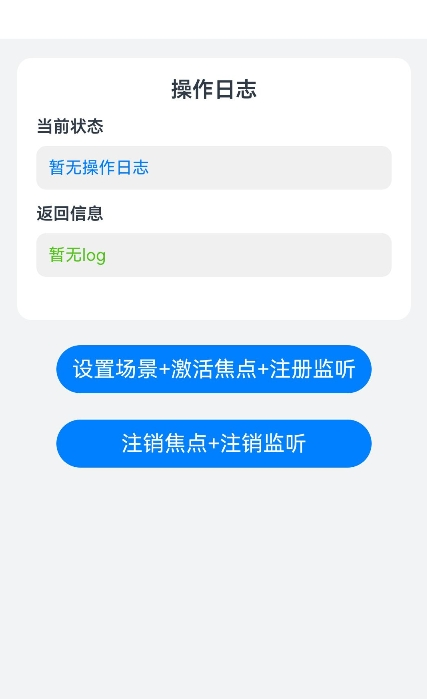
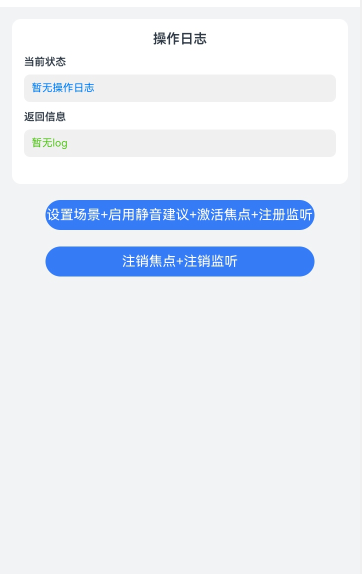
静音建议

diff --git a/code/DocsSample/Media/Audio/AudioSessionSampleC/entry/src/main/cpp/audiosession.cpp b/code/DocsSample/Media/Audio/AudioSessionSampleC/entry/src/main/cpp/audiosession.cpp
@@ -85,6 +85,12 @@ void AudioSessionStateChangedCallback(OH_AudioSession_StateChangedEvent event)
         case AUDIO_SESSION_STATE_CHANGE_HINT_UNDUCK:
           // 此分支表示系统已将音频音量恢复正常。
             break;
+        case AUDIO_SESSION_STATE_CHANGE_HINT_MUTE_SUGGESTION:
+          // 此分支表示其他应用开始播放非混音音频，系统可自行决定是否静音。
+            break;
+        case AUDIO_SESSION_STATE_CHANGE_HINT_UNMUTE_SUGGESTION:
+          // 此分支表示其他应用的非混音音频播放结束，系统可自行决定是否取消静音。
+            break;
         default:
             break;
     }
@@ -108,11 +114,18 @@ napi_value AudioSessionActive(napi_env env, napi_callback_info info)
     }
     // [End cget_sessionmanager]
     // [Start cset_audioscene]
+    // [Start cenable_muteSuggestion]
     // [EndExclude clistencallback_process]
     // AUDIO_SESSION_SCENE_MEDIA 仅为示例，实际使用时请根据具体情况进行修改。
     OH_AudioSessionManager_SetScene(audioSessionManager, AUDIO_SESSION_SCENE_MEDIA);
+    // [StartExclude cset_audioscene]
+    // 启用混音播放下静音建议。
+    OH_AudioSessionManager_EnableMuteSuggestionWhenMixWithOthers(audioSessionManager, true);
+    // [EndExclude cset_audioscene]
     // [Start cactive_sessionmanager]
+    // [StartExclude cenable_muteSuggestion]
     // CONCURRENCY_MIX_WITH_OTHERS 是示例，实际使用时请根据情况修改
+    // [EndExclude cenable_muteSuggestion]
     // [EndExclude csessionactive_process]
     OH_AudioSession_Strategy strategy = {CONCURRENCY_MIX_WITH_OTHERS};
     
@@ -120,6 +133,7 @@ napi_value AudioSessionActive(napi_env env, napi_callback_info info)
     OH_AudioSessionManager_ActivateAudioSession(audioSessionManager, &strategy);
     // [StartExclude clistencallback_process]
     // [End cset_audioscene]
+    // [End cenable_muteSuggestion]
     // [End cactive_sessionmanager]
     // 查询音频会话是否已激活。
     // [Start ccheck_isactivated]

diff --git a/code/DocsSample/Media/Audio/AudioSessionSampleC/README.md b/code/DocsSample/Media/Audio/AudioSessionSampleC/README.md
@@ -10,7 +10,7 @@
 
 <img src='./screenshots/focus_c.png' width=320> 
 
-- 点击'设置场景+激活焦点+注册监听'按钮，即可激活音频焦点。音频焦点的配置中，音频场景为媒体，焦点策略为混合播放。
+- 点击'设置场景+启用静音建议+激活焦点+注册监听'按钮，即可激活音频焦点。音频焦点的配置中，音频场景为媒体，启用混音播放下静音建议通知，焦点策略为混音播放。
 - 点击'注销焦点+注销监听'按钮，即可注销音频焦点。
 
 ## 工程结构&模块类型
@@ -36,7 +36,7 @@
 ### 使用AudioSession管理应用音频焦点
 - 源码参考：[audiosession.cpp](entry/src/main/ets/cpp/audiosession.cpp)  
 - 使用流程：
-  - 点击'设置场景+激活焦点+注册监听'按钮，首先调用`OH_AudioSessionManager_SetScene`设置当前音频场景为`MEDIA`。然后配置焦点策略为`CONCURRENCY_MIX_WITH_OTHERS`并调用`OH_AudioSessionManager_ActivateAudioSession`激活音频焦点。最后通过调用`OH_AudioSessionManager_RegisterSessionDeactivatedCallback`与`OH_AudioSessionManager_RegisterStateChangeCallback`监听焦点变化事件与焦点注销事件，监听事件触发后回调内容在返回信息栏打印。
+  - 点击'设置场景+启用静音建议+激活焦点+注册监听'按钮，首先调用`OH_AudioSessionManager_SetScene`设置当前音频场景为`MEDIA`。再调用`OH_AudioSessionManager_EnableMuteSuggestionWhenMixWithOthers`启用混音播放下静音建议通知。然后配置焦点策略为`CONCURRENCY_MIX_WITH_OTHERS`并调用`OH_AudioSessionManager_ActivateAudioSession`激活音频焦点。最后通过调用`OH_AudioSessionManager_RegisterSessionDeactivatedCallback`与`OH_AudioSessionManager_RegisterStateChangeCallback`监听焦点变化事件与焦点注销事件，监听事件触发后回调内容在返回信息栏打印。
   - 点击'注销焦点+注销监听'按钮，首先调用`OH_AudioSessionManager_DeactivateAudioSession`停用当前应用的音频会话。再调用`OH_AudioSessionManager_UnregisterSessionDeactivatedCallback`与`OH_AudioSessionManager_UnregisterStateChangeCallback`注销对焦点变化事件与焦点注销事件的监听。
 
 

diff --git a/code/DocsSample/Media/Audio/AudioSessionSampleJS/README.md b/code/DocsSample/Media/Audio/AudioSessionSampleJS/README.md
@@ -8,11 +8,12 @@
 
 **图1**：主界面
 
+<img src='./screenshots/focus_js.png' width=320>
+
 - 依次点击'设置场景'、'激活焦点+注册监听'按钮，即可激活音频焦点，焦点策略为混合播放。
+- 依次点击'设置场景'、'启用静音建议'、'激活焦点+注册监听'按钮，即可启用混音播放下静音建议通知。
 - 点击'判断焦点是否激活'按钮，即可查询焦点状态，查询信息在运行结果栏显示。
 - 点击'注销焦点+注销监听'按钮，即可注销音频焦点。
-
-  <img src='./screenshots/focus_js.png' width=320> 
 
 ## 工程结构&模块类型
 
@@ -32,6 +33,7 @@
 - 源码参考：[Index.ets](entry/src/main/ets/pages/Index.ets)  
 - 使用流程：
   - 点击'设置场景'按钮，调用`audioSessionManager.setAudioSessionScene`设置当前音频场景为`MEDIA`。
+  - 点击'启用静音建议'按钮，调用`audioSessionManager.enableMuteSuggestionWhenMixWithOthers`启用混音播放下静音建议通知。
   - 点击'激活焦点+注册监听'按钮，首先配置焦点策略为`CONCURRENCY_MIX_WITH_OTHERS`，接着调用`audioSessionManager.activateAudioSession`激活音频焦点，然后通过`audioSessionManager.on`监听焦点变化事件与焦点注销事件，监听事件触发后回调内容在回调信息栏打印。
   - 点击'判断焦点是否激活'按钮，调用`audioSessionManager.isAudioSessionActivated`来查询当前音频焦点激活状态，查询结果在运行结果栏打印。
   - 点击'注销焦点+注销监听'按钮，首先调用`audioSessionManager.deactivateAudioSession`停用当前应用的音频会话，再调用`audioSessionManager.off`来注销对焦点变化事件与焦点注销事件的监听。

diff --git a/code/DocsSample/Media/Audio/AudioSessionSampleJS/ohosTest.md b/code/DocsSample/Media/Audio/AudioSessionSampleJS/ohosTest.md
@@ -6,6 +6,7 @@
 |----------------------------|----------|----------------------|------------------------------------------------------|---------|
 | 拉起应用                     | 设备正常运行 | -                    | 成功拉起应用，进入首页                                        | 是      |
 | 设置音频会话场景               | 位于主页     | 点击"设置场景"             | 成功将 AudioSession 场景设为 MEDIA                           | 是      |
+| 启用混音播放下静音建议          | 位于主页     | 点击"启用静音建议"            | 启用混音播放下静音建议回调                          | 是      |
 | 激活音频会话并注册监听          | 位于主页     | 点击"激活焦点+注册监听"       | 激活 AudioSession（并发策略为 MIX_WITH_OTHERS）并注册状态监听器       | 是      |
 | 判断音频会话是否激活            | 位于主页     | 点击"判断焦点是否激活"        | 调用 isAudioSessionActivated 接口，返回当前激活状态（true/false） | 是      |
 | 注销音频会话并注销监听          | 位于主页     | 点击"注销焦点+注销监听"       | 停用 AudioSession 并移除所有已注册的事件监听器                    | 是      |

diff --git a/code/DocsSample/Media/Audio/AudioSessionSampleC/ohosTest.md b/code/DocsSample/Media/Audio/AudioSessionSampleC/ohosTest.md
@@ -5,5 +5,5 @@
 | 测试功能 | 预置条件 | 输入 | 预期输出 | 是否自动 |
 |----------|----------|------|----------|----------|
 | 拉起应用 | 设备正常运行 | - | 成功拉起应用，进入首页 | 是 |
-| 激活音频会话 | 位于首页 | 点击 "设置场景+激活焦点+注册监听" 按钮 | 音频会话激活成功，显示成功信息 | 是 |
+| 激活音频会话 | 位于首页 | 点击 "设置场景+启用静音建议+激活焦点+注册监听" 按钮 | 音频会话激活成功，显示成功信息 | 是 |
 | 停用音频会话 | 音频会话已激活 | 点击 "注销焦点+注销监听" 按钮 | 音频会话停用成功，显示成功信息 | 是 |
